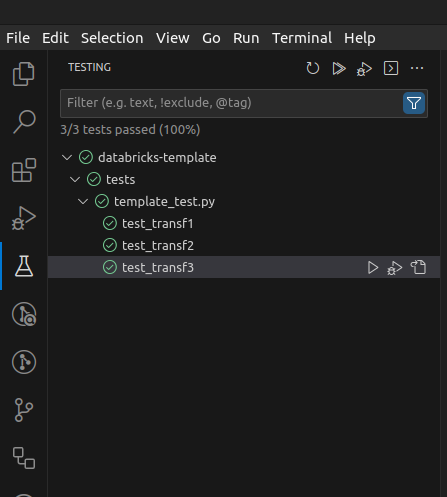
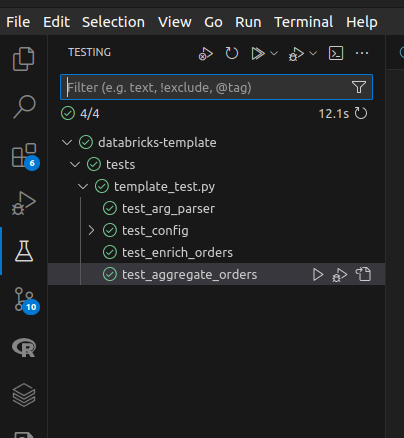
tests for medallion arch

diff --git a/tests/template_test.py b/tests/template_test.py
@@ -6,12 +6,11 @@ from pyspark.sql.types import *
 
 from template.main import *
 from template.config import Config as TaskConfig
-from template.extract_source1 import ExtractSource1
-from template.extract_source2 import ExtractSource2
+from template.generate_orders import GenerateOrders
+from template.generate_orders_agg import GenerateOrdersAgg
+from template.commonSchemas import customer_schema, order_schema, order_item_schema
 
 from pyspark.testing import assertDataFrameEqual
-
-from template.commonSchemas import schema_template
 
 #from databricks.connect import DatabricksSession
 #from databricks.sdk.core import Config
@@ -33,6 +32,27 @@ def config() -> TaskConfig:
 def spark(config) -> TaskConfig:
     return config.get_spark()
 
+
+@pytest.fixture
+def df_orders(spark) -> DataFrame:
+
+   orders_data = [("John Doe", 10, 1, 100.0, 1, "Item A", 2, 50.0), 
+                        ("John Doe", 10, 1, 100.0, 2, "Item B", 1, 50.0),
+                        ("Jane Smith", 20, 2, 150.0, 1, "Item C", 3, 150.0),]
+   orders_schema = StructType(
+   [
+      StructField("name", StringType(), True),
+      StructField("id_customer", IntegerType(), True),
+      StructField("id_order", IntegerType(), True),
+      StructField("total", FloatType(), True),
+      StructField("seq", IntegerType(), True),
+      StructField("desc_item", StringType(), True),
+      StructField("qty", IntegerType(), True),
+      StructField("total_item", FloatType(), True),
+   ]
+   )
+   return spark.createDataFrame(orders_data, schema=orders_schema)
+
 def test_arg_parser():
 
    parser = arg_parser()
@@ -51,16 +71,44 @@ def test_config(args, expected_output):
 
    assert config.get_test_output() == expected_output
 
-def test_transf1(spark, config):
+def test_enrich_orders(spark, config, df_orders):
 
-   task = ExtractSource1(config)
+   df_expected = df_orders
 
-   input_df = spark.createDataFrame([], schema=schema_template)
+   task = GenerateOrders(config)
 
-   df_out = task.transf1(input_df)
+   customer_data = [(10, "John Doe", "USA"), (20, "Jane Smith", "UK")]
+   df_customer = spark.createDataFrame(customer_data, schema=customer_schema)
 
-   assert df_out.count() == 1
+   order_data = [(1, 10, 100.0, "2023-01-01"), (2, 20, 150.0, "2023-01-02")]
+   df_order = spark.createDataFrame(order_data, schema=order_schema)
 
-   expected_df = spark.createDataFrame( [("task1", "transf1")], schema=schema_template)
+   order_item_data = [(1, 1, "Item A", 2, 50.0), (1, 2, "Item B", 1, 50.0), (2, 1, "Item C", 3, 150.0)]
+   df_order_item = spark.createDataFrame(order_item_data, schema=order_item_schema)
 
-   assertDataFrameEqual(df_out, expected_df)
+   df_out = task.enrich_order(df_customer, df_order, df_order_item)
+
+   assert df_out.count() == 3
+
+   assertDataFrameEqual(df_out, df_expected)
+
+def test_aggregate_orders(spark, config, df_orders):
+
+   task = GenerateOrdersAgg(config)
+
+   df_out = task.aggregate_orders(df_orders)
+
+   assert df_out.count() == 2
+
+   expected_data = [("John Doe", 3, 100.0), 
+                     ("Jane Smith", 3, 150.0),]
+   expected_schema = StructType(
+   [
+      StructField("name", StringType(), True),
+      StructField("total_qty", LongType(), True),
+      StructField("total_value", DoubleType(), True),
+   ]
+   )
+   df_expected = spark.createDataFrame(expected_data, schema=expected_schema)
+
+   assertDataFrameEqual(df_out, df_expected)

diff --git a/src/template/extract_source2.py b/src/template/extract_source2.py
@@ -7,6 +7,7 @@ from pyspark.sql.types import (
 )
 
 from .baseTask import BaseTask
+from .commonSchemas import order_schema, order_item_schema
 
 schema = "raw_source2"
 
@@ -20,30 +21,10 @@ class ExtractSource2(BaseTask):
 
         self.spark.sql(f"CREATE SCHEMA IF NOT EXISTS {schema}")
 
-        order_schema = StructType(
-            [
-                StructField("id", IntegerType(), True),
-                StructField("id_customer", IntegerType(), True),
-                StructField("total", FloatType(), True),
-                StructField("date", StringType(), True),
-            ]
-        )
-
-        order_item_schema = StructType(
-            [
-                StructField("id_order", IntegerType(), True),
-                StructField("seq", IntegerType(), True),
-                StructField("desc_item", StringType(), True),
-                StructField("qty", IntegerType(), True),
-                StructField("total_item", FloatType(), True),
-            ]
-        )
-
         order_data = [(1, 10, 100.0, "2023-01-01"), (2, 20, 150.0, "2023-01-02")]
+        df_order = self.spark.createDataFrame(order_data, schema=order_schema)
 
         order_item_data = [(1, 1, "Item A", 2, 50.0), (1, 2, "Item B", 1, 50.0), (2, 1, "Item C", 3, 150.0)]
-
-        df_order = self.spark.createDataFrame(order_data, schema=order_schema)
         df_order_item = self.spark.createDataFrame(order_item_data, schema=order_item_schema)
 
         if self.config.get_value("debug"):

diff --git a/src/template/commonSchemas.py b/src/template/commonSchemas.py
@@ -1,5 +1,28 @@
-from pyspark.sql.types import StringType, StructField, StructType
+from pyspark.sql.types import StringType, StructField, StructType, IntegerType, FloatType
 
-schema_template = StructType(
-    [StructField("task", StringType(), True), StructField("transformation", StringType(), True)]
+customer_schema = StructType(
+    [
+        StructField("id", IntegerType(), True),
+        StructField("name", StringType(), True),
+        StructField("country", StringType(), True),
+    ]
+)
+
+order_schema = StructType(
+    [
+        StructField("id", IntegerType(), True),
+        StructField("id_customer", IntegerType(), True),
+        StructField("total", FloatType(), True),
+        StructField("date", StringType(), True),
+    ]
+)
+
+order_item_schema = StructType(
+    [
+        StructField("id_order", IntegerType(), True),
+        StructField("seq", IntegerType(), True),
+        StructField("desc_item", StringType(), True),
+        StructField("qty", IntegerType(), True),
+        StructField("total_item", FloatType(), True),
+    ]
 )

diff --git a/src/template/generate_orders.py b/src/template/generate_orders.py
@@ -10,7 +10,7 @@ class GenerateOrders(BaseTask):
         super().__init__(config)
 
     @print_durations
-    def enrich_order_items(self, df_customer, df_order, df_order_item):
+    def enrich_order(self, df_customer, df_order, df_order_item):
         
         # TODO code your transformations here...
 
@@ -28,7 +28,7 @@ class GenerateOrders(BaseTask):
         df_order = self.spark.read.table("raw_source2.order")
         df_order_item = self.spark.read.table("raw_source2.order_item")
 
-        df_out = self.enrich_order_items(df_customer, df_order, df_order_item)
+        df_out = self.enrich_order(df_customer, df_order, df_order_item)
 
         if self.config.get_value("debug"):
             df_out.show()

diff --git a/src/template/extract_source1.py b/src/template/extract_source1.py
@@ -1,6 +1,7 @@
 from pyspark.sql.types import IntegerType, StringType, StructField, StructType
 
 from .baseTask import BaseTask
+from .commonSchemas import customer_schema
 
 schema = "raw_source1"
 
@@ -13,14 +14,6 @@ class ExtractSource1(BaseTask):
         print("Extracting data from Source1 ...")
 
         self.spark.sql(f"CREATE SCHEMA IF NOT EXISTS {schema}")
-
-        customer_schema = StructType(
-            [
-                StructField("id", IntegerType(), True),
-                StructField("name", StringType(), True),
-                StructField("country", StringType(), True),
-            ]
-        )
 
         customer_data = [(10, "John Doe", "USA"), (20, "Jane Smith", "UK")]
 

diff --git a/src/template/generate_orders_agg.py b/src/template/generate_orders_agg.py
@@ -16,7 +16,7 @@ class GenerateOrdersAgg(BaseTask):
         
         # TODO code your transformations here...
 
-        return (df_order.groupBy("name", "id_customer", "desc_item")
+        return (df_order.groupBy("name")
                     .agg(sum("qty").alias("total_qty"), sum("total_item").alias("total_value")))
     
     def run(self):

diff --git a/README.md b/README.md
@@ -3,19 +3,16 @@
 
 This project template provides a structured approach to enhance your productivity when delivering ETL pipelines on Databricks. Feel free to customize it based on your project's specific nuances and the audience you are targeting.
 
-For a debate about the use of notebooks x Python packages, please refer to:
-- [this article](https://dataengineeringcentral.substack.com/p/apple-pie-angry-people-other-news)
-- [this Linkedin thread](https://www.linkedin.com/feed/update/urn:li:activity:7171661784997715968/)
-- [this Linkedin thread](https://www.linkedin.com/feed/update/urn:li:activity:7170904539380875264/)
-
-
 This project template demonstrates how to:
 
-- structure your PySpark code inside classes/packages
-- package your code and move in on different environments in your CI/CD pipeline.
-- configure your pipeline to run in dev and prod environments.
+- structure your PySpark code inside classes/packages.
+- package your code and move it on different environments on a CI/CD pipeline.
+- configure your workflow to run in different environments with different configurations with [jinja package](https://pypi.org/project/jinja2/)
+- use a [medallion architecure](https://www.databricks.com/glossary/medallion-architecture) pattern by improving the data quality as it goes trought more refinement.
+- use a Make file to automate repetitive tasks on local env.
+- lint and format the code with [ruff](https://docs.astral.sh/ruff/) and [pre-commit](https://pre-commit.com/).
 - set up VS Code to execute local unit tests for your transformations.
-- utilize [pipenv/Pipfile](https://pipenv.pypa.io/) instead of pip/requirements.txt.
+- utilize [pipenv/Pipfile](https://pipenv.pypa.io/) to prepare local and remote envs.
 - utilize [pytest package](https://pypi.org/project/pytest/) to run unit tests on transformations.
 - utilize [argparse package](https://pypi.org/project/argparse/) to build a flexible command line interface to start your jobs.
 - utilize [funcy package](https://pypi.org/project/funcy/) to log the execution time of each transformation.
@@ -25,6 +22,13 @@ This project template demonstrates how to:
 - utilize [Databricks Workflows](https://docs.databricks.com/en/workflows/index.html) to execute a DAG and [task parameters](https://docs.databricks.com/en/workflows/jobs/parameter-value-references.html) to share context information between tasks (see [Task Parameters section](#task-parameters)). Yes, you don't need Airflow to manage your DAGs here!!!
 - utilize [Databricks job clusters](https://docs.databricks.com/en/workflows/jobs/use-compute.html#use-databricks-compute-with-your-jobs) to reduce costs.
 - execute a CI/CD pipeline with [Github Actions](https://docs.github.com/en/actions) after a repo push.
+
+For a debate about the use of notebooks x Python packages, please refer to:
+- [this article](https://dataengineeringcentral.substack.com/p/apple-pie-angry-people-other-news)
+- [this Linkedin thread](https://www.linkedin.com/feed/update/urn:li:activity:7171661784997715968/)
+- [this Linkedin thread](https://www.linkedin.com/feed/update/urn:li:activity:7170904539380875264/)
+
+
 
 ### DAG
 
